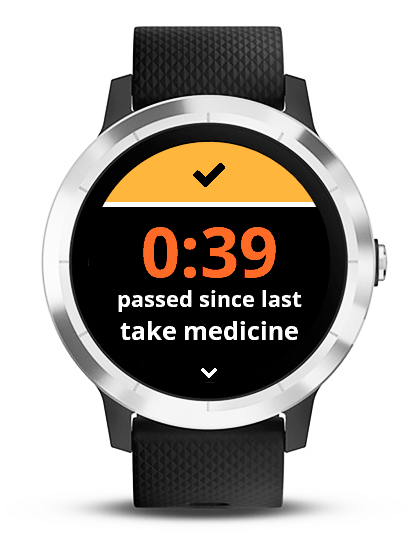
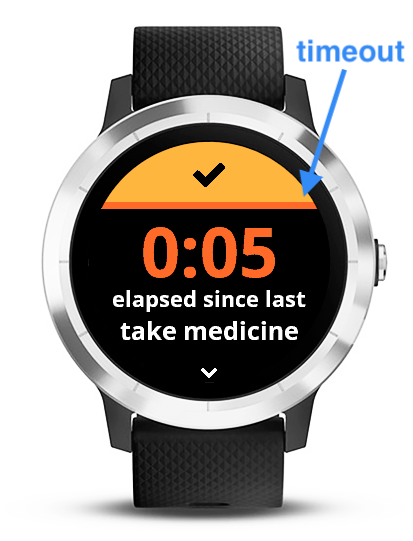
v1.1.1 (see changeling)

Changed region(s): [[0.2615, 0.414, 0.7554, 0.5915], [0.2324, 0.1774, 0.8136, 0.3845], [0.6973, 0.0591, 0.9879, 0.1774]]

diff --git a/README.md b/README.md
@@ -17,7 +17,7 @@ History Screen:
 
 Settings can be adjusted in Garmin Connect mobile app or Garmin Express.
 
-- Time out: in minutes. Change color of time display on main screen to orange when time passed.
+- Time out: in minutes. Show progress bar according to elapsed percentage.
 - Alert: Wake up the widge on timeout if it's not running in foreground. The behavior on wake up differs on watch model, usually there is a vibration if the watch is not in Do Not Disturb mode. 
 
 ## Screenshots
@@ -35,7 +35,7 @@ Settings can be adjusted in Garmin Connect mobile app or Garmin Express.
 ```
 brew tap AdoptOpenJDK/openjdk
 brew cask install adoptopenjdk8
-brew install jenv   # add follow the console output to setup your shell
+brew install jenv          # follow the console output to setup your shell
 ```
 
 Following instruction on https://github.com/jenv/jenv to setup `jenv` 

diff --git a/CHANGELOG.md b/CHANGELOG.md
@@ -1,5 +1,9 @@
 # Changelog
 
+## [1.1.1] - 2019-9-10
+- Show progress bar
+- Support all vivoactive3 serie devices 
+
 ## [1.1.0] - 2019-9-5
 - Add settings
 - Run background service and alert on timeout
